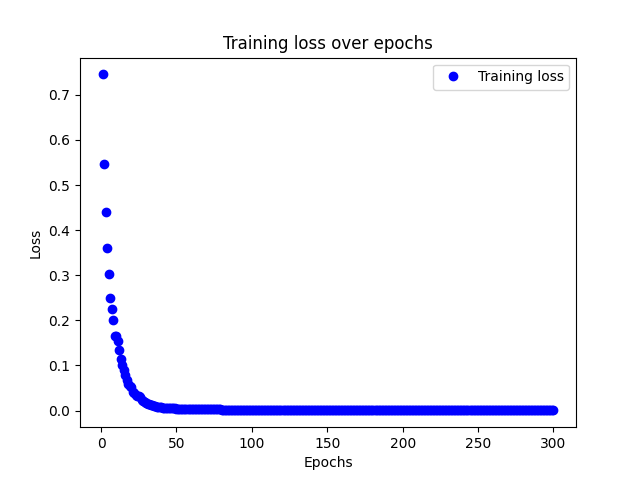
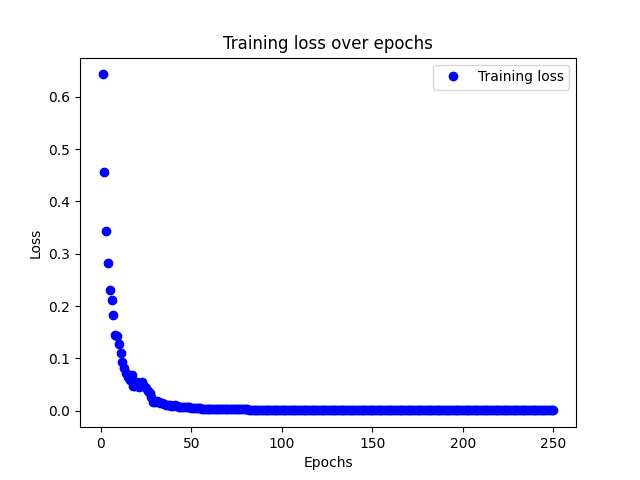
trained model with c4 hard

diff --git a/ModelGeneration/model_generation.py b/ModelGeneration/model_generation.py
@@ -135,7 +135,7 @@ def train(X_train, y_train, epochs, learning_rate):
         print(f'Epoch [{epoch+1}/{epochs}], Loss: {loss.item():.4f}')
 
     torch.save(model.state_dict(),
-               'ModelGeneration/lstm_model_all_withoutc4hard.pth')
+               'ModelGeneration/lstm_model_c4hard.pth')
     epochs_list = list(range(1, epochs + 1))
     make_plot(epochs_list, loss_values)
 
@@ -159,7 +159,7 @@ def evaluate(X_test, y_test):
     model = LSTMModel(input_size=7, hidden_size=64,
                       num_layers=1, output_size=1)
     model.load_state_dict(torch.load(
-        'ModelGeneration/lstm_model_all_withoutc4hard.pth'))
+        'ModelGeneration/lstm_model_c4hard.pth'))
     model.eval()
 
     # Convert numpy arrays to PyTorch tensors
@@ -184,10 +184,10 @@ if __name__ == '__main__':
     print('Using device:', device)
 
     folder_path = Path('/home/mindlab/humanObjectDetectionDataset/processedData')
-    X = np.load(str((folder_path / "x_data.npy").absolute()))
-    y = np.load(str((folder_path / "y_data.npy").absolute()))
-    # X = np.load("DataPreparation/x_data.npy")
-    # y = np.load("DataPreparation/y_data.npy")
+    #X = np.load(str((folder_path / "x_data.npy").absolute()))
+    #y = np.load(str((folder_path / "y_data.npy").absolute()))
+    X = np.load("DataPreparation/x_data.npy")
+    y = np.load("DataPreparation/y_data.npy")
 
     label_encoder = LabelEncoder()
     y_encoded = label_encoder.fit_transform(y)
